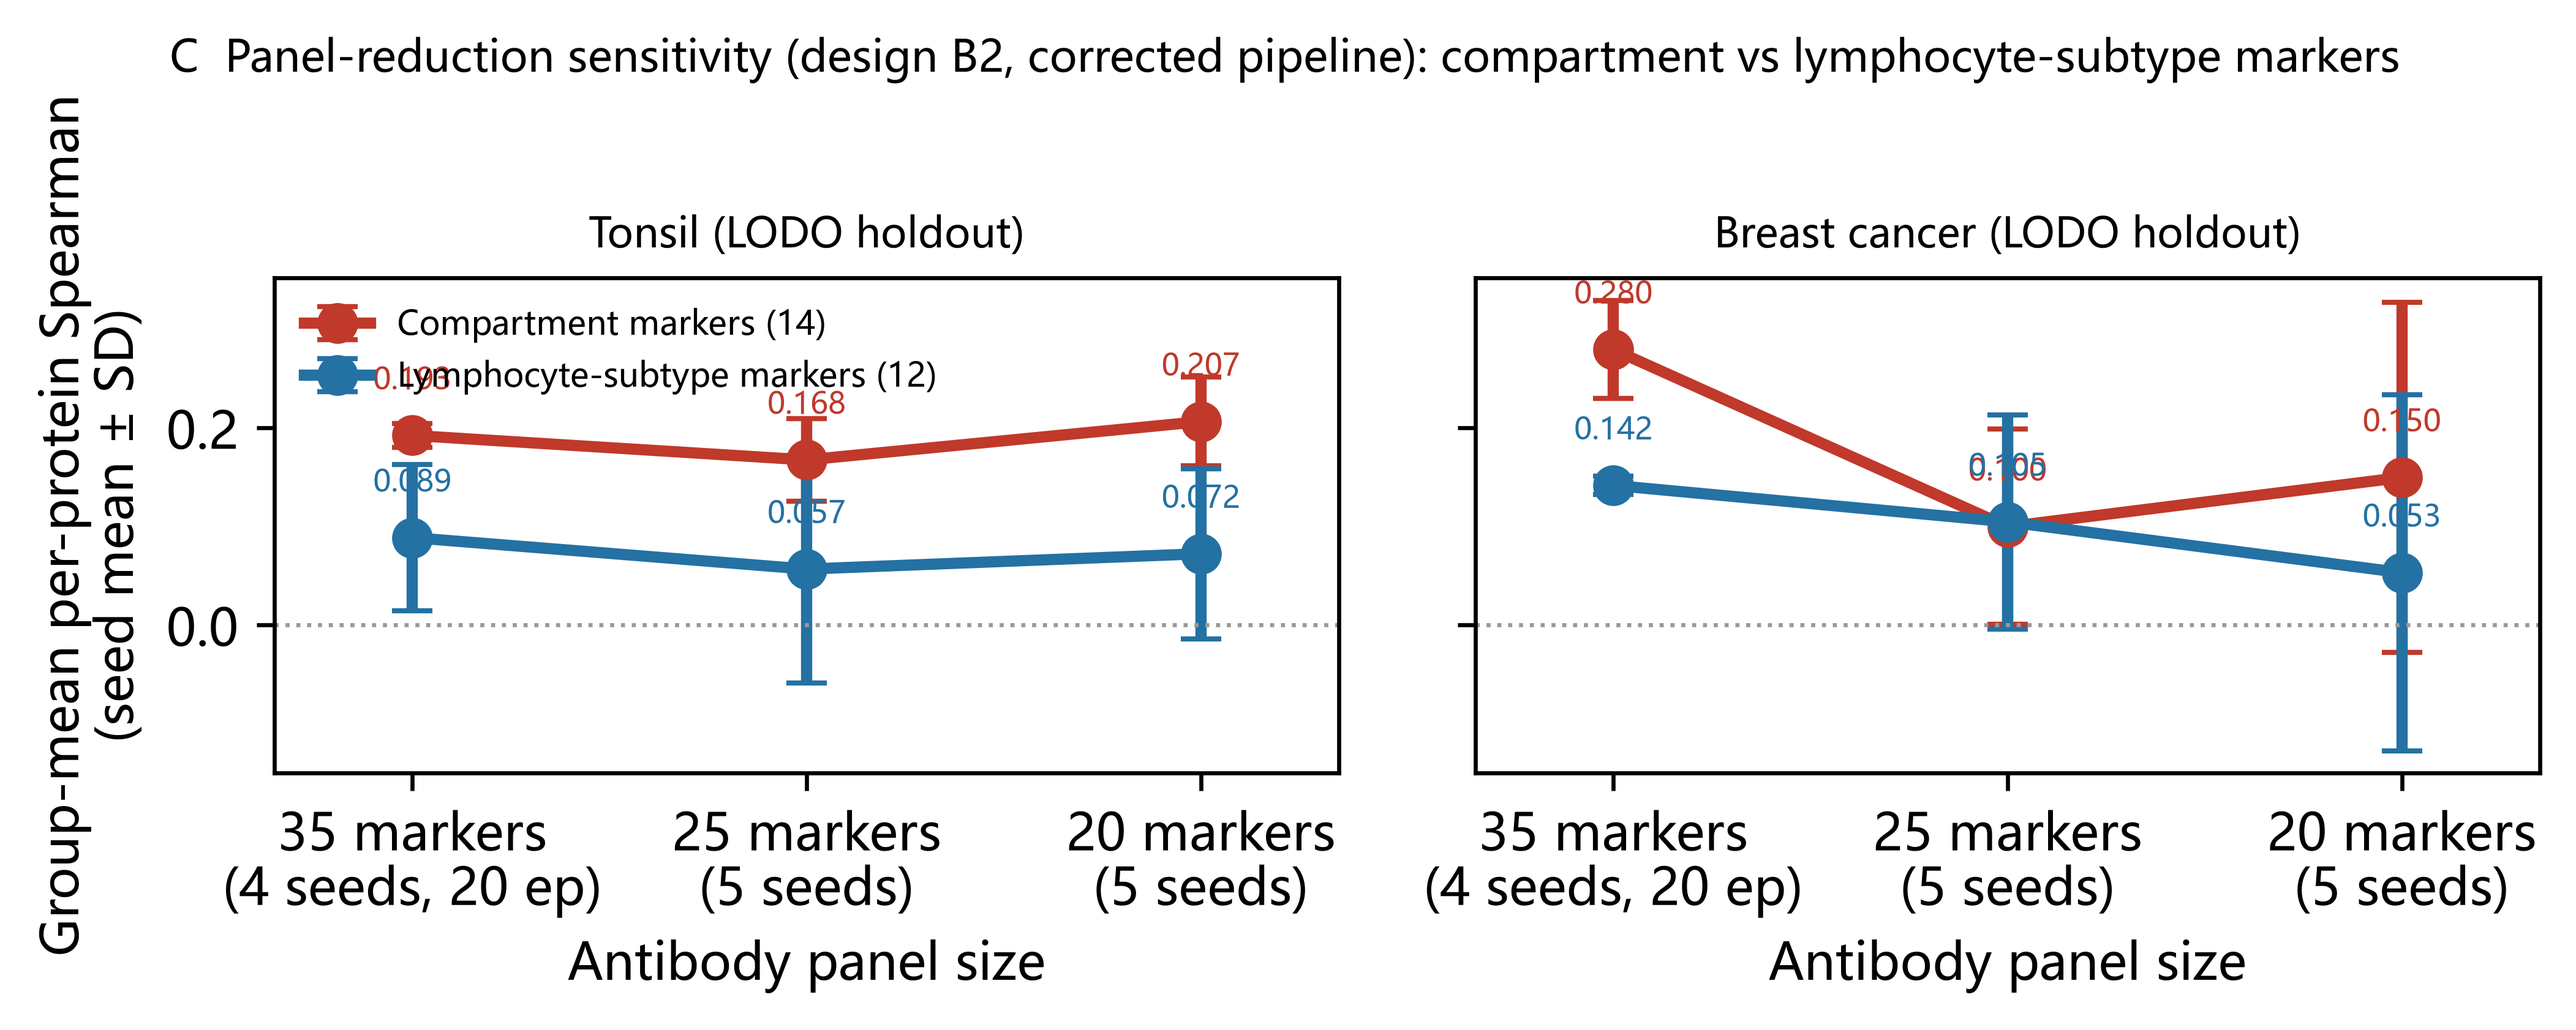
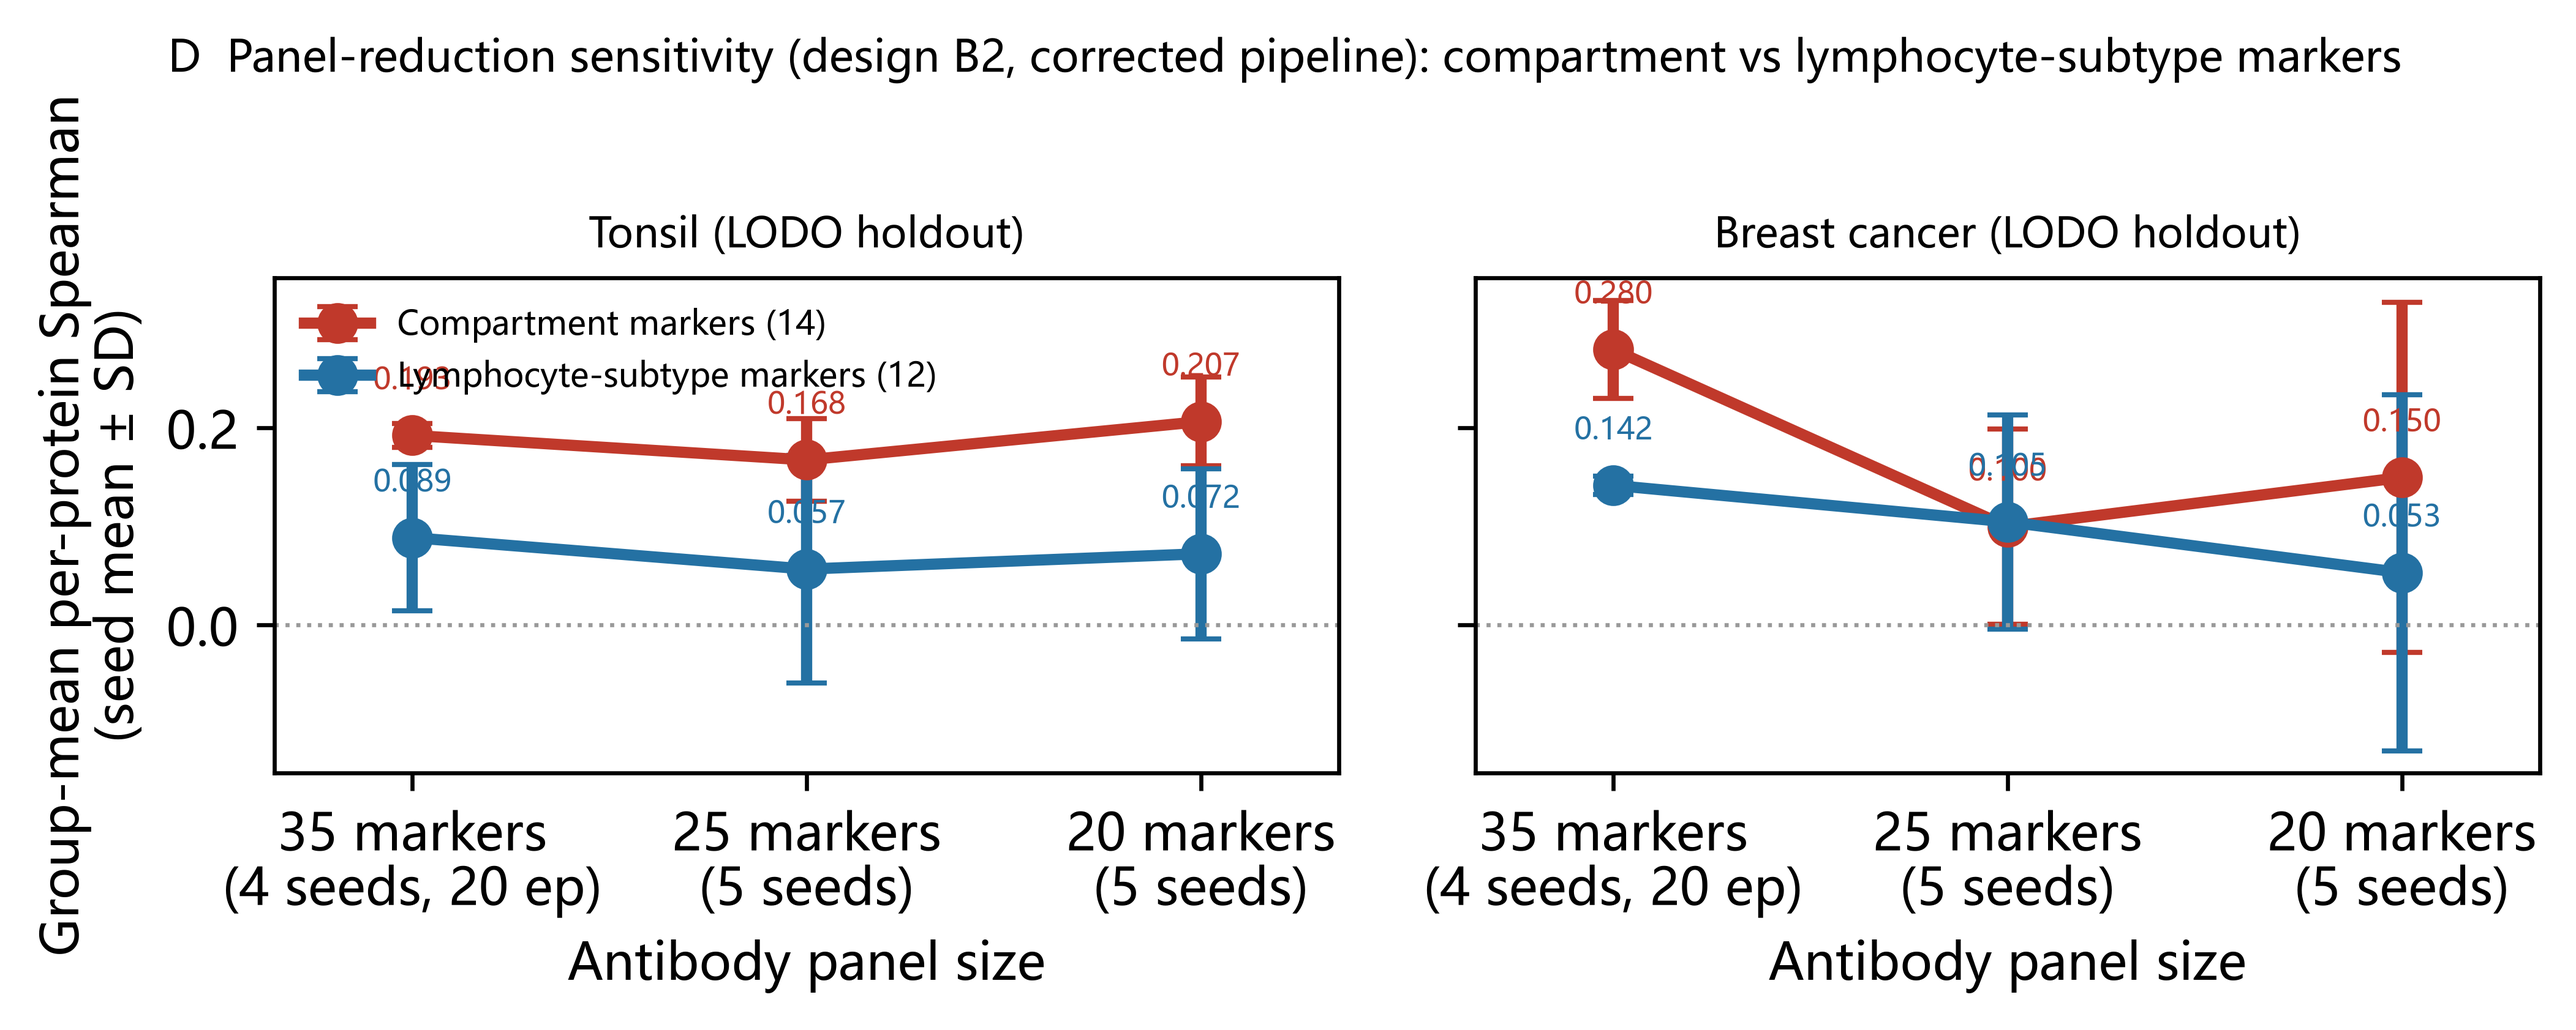
Renumber figures 3/4 and reorder panels to match first-citation order
- Figure 3 = mechanism & controls (A identity, B internal-vs-external, C ablation, D RNA coverage)
- Figure 4 = architecture comparison (A seed stability, B spot retention, C scatter, D paired difference)
- Figure 1 panels C/D swapped so all panels are cited in order
- Abstract trimmed to 148 words (journal limit 150)

Changed region(s): [[0.0623, 0.0309, 0.9344, 0.0927]]

diff --git a/scripts/make_fig3_fig4.py b/scripts/make_fig3_fig4.py
@@ -1,15 +1,20 @@
 # -*- coding: utf-8 -*-
-"""Fig3（架构对比）与 Fig4（机制与对照）——全部数字从存档结果表实时计算，无硬编码统计值。
+"""Fig3（机制与对照）与 Fig4（架构对比）——全部数字从存档结果表实时计算，无硬编码统计值。
 
-数据源：
-- Fig3A/B: results/competitor_benchmark_per_protein.csv (ridge_pc, 4 外部样本) +
-           server_round2/dgat_lodo_gse_per_protein.csv (DGAT, 2 折 × 4 样本)
-- Fig3C:   DGAT 自带 700 基因 spot 过滤后的 n_spots（dgat 表）vs 总 spot 数（internal_vs_external_summary.csv）
-- Fig3D:   results/lodo100ep_multiseed_summary.csv (3 seeds)
-- Fig4A:   results/designC_marker_importance.csv (31 标志物消融)
-- Fig4B:   results/rna_coverage_diagnosis.csv (两数据集)
-- Fig4C:   results/visium_eope_score.csv（或 _A/_B）逐 spot 签名分 → Mann-Whitney AUC(A>B)
-- Fig4D:   results/internal_vs_external_summary.csv（6 样本模型 SP + 同型地板）
+面板按正文首次引用顺序排列（Fig3A 在 §5 切片身份、Fig4A 在 §6 预算、其余随节）：
+
+- Figure 3（机制归因与对照诊断）= results/fig3_mechanism_controls.png
+  Fig3A: results/visium_eope_score.csv 逐 spot 签名分 → Mann-Whitney AUC(A>B)（切片身份）
+  Fig3B: results/internal_vs_external_summary.csv（6 样本模型 SP + 同型地板）
+  Fig3C: results/designC_marker_importance.csv（31 标志物消融）
+  Fig3D: results/rna_coverage_diagnosis.csv（两数据集 RNA 覆盖）
+- Figure 4（架构对比）= results/fig4_architecture.png
+  Fig4A: results/lodo100ep_multiseed_summary.csv（3 seeds 满预算稳定性）
+  Fig4B: results/competitor_benchmark_per_protein.csv (ridge_pc) +
+         server_round2/dgat_lodo_gse_per_protein.csv（逐蛋白散点）
+  Fig4C: 同上（配对差瀑布）
+  Fig4D: DGAT 700 基因 spot 过滤保留率（dgat 表 vs internal_vs_external_summary.csv）
+
 分组（compartment/lymph_subtype/other）取自 designC_marker_importance.csv 的 dropped_group。
 """
 import os
@@ -18,6 +23,7 @@ import pandas as pd
 import matplotlib
 matplotlib.use("Agg")
 import matplotlib.pyplot as plt
+from scipy.stats import mannwhitneyu
 
 os.chdir(os.path.dirname(os.path.dirname(os.path.abspath(__file__))))
 matplotlib.rcParams["font.sans-serif"] = ["DejaVu Sans", "Microsoft YaHei"]
@@ -31,130 +37,23 @@ grp = dict(zip(imp.dropped, imp.dropped_group))
 def gcol(p): return {"compartment": C_COMP, "lymph_subtype": C_LYMPH}.get(grp.get(p), C_OTHER)
 markers = list(grp.keys())
 
-# ---------- Fig3 数据 ----------
+tot = pd.read_csv("results/internal_vs_external_summary.csv")
+ms = pd.read_csv("results/lodo100ep_multiseed_summary.csv")
 ridge = pd.read_csv("results/competitor_benchmark_per_protein.csv")
 ridge_m = (ridge[ridge.model == "ridge_pc"].groupby("protein").spearman.mean())
 dgat = pd.read_csv("server_round2/dgat_lodo_gse_per_protein.csv")
 dgat_s = dgat.groupby(["sample", "protein"]).spearman.mean().reset_index()  # 样本先行（2 折平均）
 dgat_m = dgat_s.groupby("protein").spearman.mean()
 dgat_spots = dgat.groupby("sample").n_spots.first()
-tot = pd.read_csv("results/internal_vs_external_summary.csv")
 tot_ext = tot[tot["set"] == "外部 GSE"].set_index("sample").n_spots
-ms = pd.read_csv("results/lodo100ep_multiseed_summary.csv")
 ridge_mean = float(ridge[ridge.model == "ridge_pc"].groupby("sample").spearman.mean().mean())
 
-fig, axs = plt.subplots(2, 2, figsize=(7.2, 6.1))
-fig.suptitle("Architecture comparison under the identical external protocol", fontsize=9.5, y=0.995)
-
-# A: ridge vs DGAT per-protein scatter
-ax = axs[0, 0]
-for p in markers:
-    ax.scatter(ridge_m[p], dgat_m[p], s=34, c=gcol(p), zorder=3,
-               edgecolor="w", linewidth=0.4)
-lim = [-0.15, 0.85]
-ax.plot(lim, lim, "k--", lw=0.8, zorder=2)
-ax.set_xlim(lim); ax.set_ylim(lim)
-ax.set_xlabel("ridge on PCA-50 (mean external ρ)")
-ax.set_ylabel("DGAT (mean external ρ)")
-for p in ["PAX5", "CXCR5", "PDCD1", "MS4A1", "CD4", "CD8A"]:
-    ax.annotate(p, (ridge_m[p], dgat_m[p]), fontsize=6.5, xytext=(3, 3),
-                textcoords="offset points")
-ax.set_title("A  Per-protein: DGAT vs ridge (31 markers)", fontsize=8.5, loc="left")
-ax.text(0.03, 0.96, f"means: DGAT {dgat_m[markers].mean():.3f} vs ridge {ridge_m[markers].mean():.3f}",
-        transform=ax.transAxes, fontsize=7, va="top",
-        bbox=dict(fc="w", ec="0.7", alpha=0.85))
-ax.spines[["top", "right"]].set_visible(False)
-
-# B: paired difference DGAT - ridge
-ax = axs[0, 1]
-diff = (dgat_m[markers] - ridge_m[markers]).sort_values()
-ax.barh(range(len(diff)), diff.values, color=[gcol(p) for p in diff.index],
-        height=0.72, zorder=3)
-ax.set_yticks(range(len(diff)))
-ax.set_yticklabels(diff.index, fontsize=5.5)
-ax.axvline(0, color="k", lw=0.8)
-ax.set_xlabel("DGAT − ridge  (Spearman)")
-nwin = int((diff > 0).sum())
-ax.set_title(f"B  DGAT wins {nwin} of 31 markers vs ridge", fontsize=8.5, loc="left")
-ax.spines[["top", "right"]].set_visible(False)
-
-# C: DGAT spot retention
-ax = axs[1, 0]
-samples = list(tot_ext.index)
-ret = [100.0 * float(dgat_spots.get(s, np.nan)) / float(tot_ext[s]) for s in samples]
-ax.bar(range(len(samples)), ret, color="#8e44ad", width=0.6, zorder=3)
-for i, (s, r) in enumerate(zip(samples, ret)):
-    ax.text(i, r + 1.5, f"{dgat_spots.get(s, 0):.0f}/{tot_ext[s]:.0f}",
-            ha="center", fontsize=6.5)
-ax.axhline(100, color="k", lw=0.6, ls=":")
-ax.set_xticks(range(len(samples))); ax.set_xticklabels(samples, fontsize=7)
-ax.set_ylabel("spots retained (%)")
-ax.set_ylim(0, 112)
-ax.set_title("C  DGAT spot filter: retention per section", fontsize=8.5, loc="left")
-ax.spines[["top", "right"]].set_visible(False)
-
-# D: 3-seed stability at 100 epochs
-ax = axs[1, 1]
-seeds = ms.seed.astype(int).tolist()
-vals = ms.spear_marker_mean.tolist()
-floors = ms.spear_isotype_mean.tolist()
-ax.bar(range(len(seeds)), vals, color="#e67e22", width=0.55, zorder=3)
-for i, (v, f) in enumerate(zip(vals, floors)):
-    ax.hlines(f, i - 0.27, i + 0.27, color="k", ls=":", lw=1.2, zorder=4)
-ax.axhline(ridge_mean, color="#16a085", lw=1.2, ls="--", zorder=2)
-ax.text(len(seeds) - 0.45, ridge_mean + 0.006, f"ridge {ridge_mean:.3f}",
-        ha="right", fontsize=7, color="#16a085")
-m, sd = np.mean(vals), np.std(vals, ddof=1)
-ax.set_xticks(range(len(seeds))); ax.set_xticklabels([f"seed {s}" for s in seeds])
-ax.set_ylabel("external mean Spearman (31 markers)")
-ax.set_ylim(0, 0.45)
-ax.set_title(f"D  Full-budget stability: {m:.3f} ± {sd:.3f} across seeds",
-             fontsize=8.5, loc="left")
-ax.spines[["top", "right"]].set_visible(False)
-
-plt.tight_layout(rect=[0, 0, 1, 0.97])
-plt.savefig("results/fig3_architecture.png", dpi=600)
-plt.close(fig)
-print(f"fig3 saved | ridge={ridge_mean:.4f} DGAT={dgat_m[markers].mean():.4f} "
-      f"DGAT wins {nwin}/31 | seeds {[round(v,3) for v in vals]} mean {m:.3f}±{sd:.3f} "
-      f"| retention {[round(r,1) for r in ret]}")
-
-# ================= Fig 4 =================
+# ================= Figure 3：机制归因与对照诊断 =================
 fig, axs = plt.subplots(2, 2, figsize=(7.2, 6.1))
 fig.suptitle("Mechanism attribution and control diagnostics", fontsize=9.5, y=0.995)
 
-# A: designC ablation
+# A: section identity AUC (recomputed from per-spot signature scores)
 ax = axs[0, 0]
-d = imp.set_index("dropped").mean_delta.sort_values()
-ax.barh(range(len(d)), d.values, color=[gcol(p) for p in d.index], height=0.72, zorder=3)
-ax.set_yticks(range(len(d))); ax.set_yticklabels(d.index, fontsize=5.5)
-ax.axvline(0, color="k", lw=0.8)
-ax.set_xlabel("mean ΔSpearman when marker dropped")
-ax.set_title("A  Per-marker ablation (31 retrainings)",
-             fontsize=8.5, loc="left")
-ax.spines[["top", "right"]].set_visible(False)
-
-# B: RNA coverage
-ax = axs[0, 1]
-rc = pd.read_csv("results/rna_coverage_diagnosis.csv")
-mk = {"tonsil": "o", "breast": "^"}
-for ds, sub in rc.groupby("dataset"):
-    for gname, c in [("compartment", C_COMP), ("lymph_subtype", C_LYMPH)]:
-        s2 = sub[(sub.group == gname) & (sub.in_panel.astype(str) == "True")]
-        ax.scatter(s2.mean_expr, s2.detect_rate, s=30, c=c, marker=mk.get(ds, "o"),
-                   alpha=0.75, edgecolor="w", linewidth=0.3, zorder=3,
-                   label=f"{gname}, {ds}")
-ax.set_xscale("symlog", linthresh=0.1)
-ax.set_xlabel("namesake expression (log10)")
-ax.set_ylabel("detection rate (fraction of spots)")
-ax.set_ylim(0, 1.02)
-ax.legend(fontsize=6.5, loc="upper left", framealpha=0.9)
-ax.set_title("B  RNA coverage of namesake genes",
-             fontsize=8.5, loc="left")
-ax.spines[["top", "right"]].set_visible(False)
-
-# C: section identity AUC (recomputed from per-spot signature scores)
-ax = axs[1, 0]
 sc = pd.read_csv("results/visium_eope_score.csv")
 sigs = ["vSTB1", "vSTB2", "vSTBjuv", "vCTB", "vHBC", "vVEC"]
 if set(sc.section.unique()) >= {"A", "B"}:
@@ -169,13 +68,10 @@ aucs = {}
 for s in sigs:
     xa = A[f"score_{s}"].dropna().values
     xb = B[f"score_{s}"].dropna().values
-    u = len(xa) * len(xb) * 0.5  # placeholder, real below
-    from scipy.stats import mannwhitneyu
     u, p = mannwhitneyu(xa, xb, alternative="two-sided")
     aucs[s] = u / (len(xa) * len(xb))
 # 合并签名
 xa = A["score"].dropna().values; xb = B["score"].dropna().values
-from scipy.stats import mannwhitneyu
 u, p = mannwhitneyu(xa, xb, alternative="two-sided")
 aucs["combined"] = u / (len(xa) * len(xb))
 names = sigs + ["combined"]
@@ -188,11 +84,11 @@ ax.invert_yaxis()
 for i, v in enumerate(vals_c):
     ax.text(v + 0.002, i, f"{v:.3f}", va="center", fontsize=6.5)
 ax.set_xlabel("AUC (A vs B, Mann–Whitney U)")
-ax.set_title("C  Section identity unresolved: all AUCs ≈ 0.5", fontsize=8.5, loc="left")
+ax.set_title("A  Section identity unresolved: all AUCs ≈ 0.5", fontsize=8.5, loc="left")
 ax.spines[["top", "right"]].set_visible(False)
 
-# D: internal vs external per sample
-ax = axs[1, 1]
+# B: internal vs external per sample
+ax = axs[0, 1]
 iv = tot.copy()
 labels = iv["sample"].tolist()
 colors = ["#7f8c8d" if s == "内部 LODO" else "#c0392b" for s in iv["set"]]
@@ -209,12 +105,119 @@ ax.set_xticklabels([f"{t}\n({g})" for t, g in zip(short_lab, iv["set_short"])], 
 ax.axhline(0, color="k", lw=0.6)
 ax.set_ylabel("mean Spearman (20-epoch ckpts)")
 ax.legend(fontsize=6.5, loc="upper right")
-ax.set_title("D  Internal LODO vs external sections",
+ax.set_title("B  Internal LODO vs external sections",
+             fontsize=8.5, loc="left")
+ax.spines[["top", "right"]].set_visible(False)
+
+# C: designC ablation
+ax = axs[1, 0]
+d = imp.set_index("dropped").mean_delta.sort_values()
+ax.barh(range(len(d)), d.values, color=[gcol(p) for p in d.index], height=0.72, zorder=3)
+ax.set_yticks(range(len(d))); ax.set_yticklabels(d.index, fontsize=5.5)
+ax.axvline(0, color="k", lw=0.8)
+ax.set_xlabel("mean ΔSpearman when marker dropped")
+ax.set_title("C  Per-marker ablation (31 retrainings)",
+             fontsize=8.5, loc="left")
+ax.spines[["top", "right"]].set_visible(False)
+
+# D: RNA coverage
+ax = axs[1, 1]
+rc = pd.read_csv("results/rna_coverage_diagnosis.csv")
+mk = {"tonsil": "o", "breast": "^"}
+for ds, sub in rc.groupby("dataset"):
+    for gname, c in [("compartment", C_COMP), ("lymph_subtype", C_LYMPH)]:
+        s2 = sub[(sub.group == gname) & (sub.in_panel.astype(str) == "True")]
+        ax.scatter(s2.mean_expr, s2.detect_rate, s=30, c=c, marker=mk.get(ds, "o"),
+                   alpha=0.75, edgecolor="w", linewidth=0.3, zorder=3,
+                   label=f"{gname}, {ds}")
+ax.set_xscale("symlog", linthresh=0.1)
+ax.set_xlabel("namesake expression (log10)")
+ax.set_ylabel("detection rate (fraction of spots)")
+ax.set_ylim(0, 1.02)
+ax.legend(fontsize=6.5, loc="upper left", framealpha=0.9)
+ax.set_title("D  RNA coverage of namesake genes",
              fontsize=8.5, loc="left")
 ax.spines[["top", "right"]].set_visible(False)
 
 plt.tight_layout(rect=[0, 0, 1, 0.97])
-plt.savefig("results/fig4_mechanism_controls.png", dpi=600)
+plt.savefig("results/fig3_mechanism_controls.png", dpi=600)
 plt.close(fig)
-print(f"fig4 saved | AUCs {({k: round(v,3) for k,v in aucs.items()})} "
+print(f"fig3 saved | AUCs {({k: round(v,3) for k,v in aucs.items()})} "
       f"| ablation range [{d.min():.3f},{d.max():.3f}] | n rc rows {len(rc)}")
+
+# ================= Figure 4：架构对比 =================
+fig, axs = plt.subplots(2, 2, figsize=(7.2, 6.1))
+fig.suptitle("Architecture comparison under the identical external protocol", fontsize=9.5, y=0.995)
+
+# A: 3-seed stability at 100 epochs
+ax = axs[0, 0]
+seeds = ms.seed.astype(int).tolist()
+vals = ms.spear_marker_mean.tolist()
+floors = ms.spear_isotype_mean.tolist()
+ax.bar(range(len(seeds)), vals, color="#e67e22", width=0.55, zorder=3)
+for i, (v, f) in enumerate(zip(vals, floors)):
+    ax.hlines(f, i - 0.27, i + 0.27, color="k", ls=":", lw=1.2, zorder=4)
+ax.axhline(ridge_mean, color="#16a085", lw=1.2, ls="--", zorder=2)
+ax.text(len(seeds) - 0.45, ridge_mean + 0.006, f"ridge {ridge_mean:.3f}",
+        ha="right", fontsize=7, color="#16a085")
+m, sd = np.mean(vals), np.std(vals, ddof=1)
+ax.set_xticks(range(len(seeds))); ax.set_xticklabels([f"seed {s}" for s in seeds], fontsize=7.5)
+ax.set_ylabel("external mean Spearman")
+ax.set_ylim(0, 0.45)
+ax.set_title(f"A  Full-budget stability: {m:.3f} ± {sd:.3f} across seeds",
+             fontsize=8.5, loc="left")
+ax.spines[["top", "right"]].set_visible(False)
+
+# C: ridge vs DGAT per-protein scatter
+ax = axs[1, 0]
+for p in markers:
+    ax.scatter(ridge_m[p], dgat_m[p], s=34, c=gcol(p), zorder=3,
+               edgecolor="w", linewidth=0.4)
+lim = [-0.15, 0.85]
+ax.plot(lim, lim, "k--", lw=0.8, zorder=2)
+ax.set_xlim(lim); ax.set_ylim(lim)
+ax.set_xlabel("ridge on PCA-50 (mean external ρ)")
+ax.set_ylabel("DGAT (mean external ρ)")
+for p in ["PAX5", "CXCR5", "PDCD1", "MS4A1", "CD4", "CD8A"]:
+    ax.annotate(p, (ridge_m[p], dgat_m[p]), fontsize=6.5, xytext=(3, 3),
+                textcoords="offset points")
+ax.set_title("C  Per-protein: DGAT vs ridge (31 markers)", fontsize=8.5, loc="left")
+ax.text(0.03, 0.96, f"means: DGAT {dgat_m[markers].mean():.3f} vs ridge {ridge_m[markers].mean():.3f}",
+        transform=ax.transAxes, fontsize=7, va="top",
+        bbox=dict(fc="w", ec="0.7", alpha=0.85))
+ax.spines[["top", "right"]].set_visible(False)
+
+# D: paired difference DGAT - ridge
+ax = axs[1, 1]
+diff = (dgat_m[markers] - ridge_m[markers]).sort_values()
+ax.barh(range(len(diff)), diff.values, color=[gcol(p) for p in diff.index],
+        height=0.72, zorder=3)
+ax.set_yticks(range(len(diff)))
+ax.set_yticklabels(diff.index, fontsize=5.5)
+ax.axvline(0, color="k", lw=0.8)
+ax.set_xlabel("DGAT − ridge  (Spearman)")
+nwin = int((diff > 0).sum())
+ax.set_title(f"D  DGAT wins {nwin} of 31 markers vs ridge", fontsize=8.5, loc="left")
+ax.spines[["top", "right"]].set_visible(False)
+
+# B: DGAT spot retention
+ax = axs[0, 1]
+samples = list(tot_ext.index)
+ret = [100.0 * float(dgat_spots.get(s, np.nan)) / float(tot_ext[s]) for s in samples]
+ax.bar(range(len(samples)), ret, color="#8e44ad", width=0.6, zorder=3)
+for i, (s, r) in enumerate(zip(samples, ret)):
+    ax.text(i, r + 1.5, f"{dgat_spots.get(s, 0):.0f}/{tot_ext[s]:.0f}",
+            ha="center", fontsize=6.5)
+ax.axhline(100, color="k", lw=0.6, ls=":")
+ax.set_xticks(range(len(samples))); ax.set_xticklabels(samples, fontsize=7)
+ax.set_ylabel("spots retained (%)")
+ax.set_ylim(0, 112)
+ax.set_title("B  DGAT spot filter: retention per section", fontsize=8.5, loc="left")
+ax.spines[["top", "right"]].set_visible(False)
+
+plt.tight_layout(rect=[0, 0, 1, 0.97])
+plt.savefig("results/fig4_architecture.png", dpi=600)
+plt.close(fig)
+print(f"fig4 saved | ridge={ridge_mean:.4f} DGAT={dgat_m[markers].mean():.4f} "
+      f"DGAT wins {nwin}/31 | seeds {[round(v,3) for v in vals]} mean {m:.3f}±{sd:.3f} "
+      f"| retention {[round(r,1) for r in ret]}")

diff --git a/scripts/make_fig1_composite.py b/scripts/make_fig1_composite.py
@@ -10,10 +10,10 @@ import matplotlib.image as mpimg
 os.chdir(os.path.dirname(os.path.dirname(os.path.abspath(__file__))))
 
 fig = plt.figure(figsize=(7.4, 9.6))
-gs = fig.add_gridspec(3, 1, height_ratios=[2.9, 2.7, 3.9], hspace=0.07)
+gs = fig.add_gridspec(3, 1, height_ratios=[2.9, 3.9, 2.7], hspace=0.07)
 for i, f in enumerate(["results/fig1_benchmark_external.png",
-                       "results/fig1c_panel_reduction.png",
-                       "results/fig1d_budget_vs_baselines.png"]):
+                       "results/fig1d_budget_vs_baselines.png",
+                       "results/fig1c_panel_reduction.png"]):
     ax = fig.add_subplot(gs[i])
     ax.imshow(mpimg.imread(f))
     ax.axis("off")

diff --git a/scripts/make_fig1c.py b/scripts/make_fig1c.py
@@ -97,7 +97,7 @@ for ax, (title, fold) in zip(axes, FOLDS):
 
 axes[0].set_ylabel("Group-mean per-protein Spearman\n(seed mean ± SD)")
 axes[0].legend(loc="upper left", fontsize=6.5, frameon=False)
-fig.suptitle("C  Panel-reduction sensitivity (design B2, corrected pipeline): compartment vs lymphocyte-subtype markers",
+fig.suptitle("D  Panel-reduction sensitivity (design B2, corrected pipeline): compartment vs lymphocyte-subtype markers",
              fontsize=8.5, y=1.02)
 fig.tight_layout()
 fig.savefig("results/fig1c_panel_reduction.png", dpi=600, bbox_inches="tight")

diff --git a/scripts/make_fig1d.py b/scripts/make_fig1d.py
@@ -52,7 +52,7 @@ ax.axhline(0, color="k", lw=0.6)
 ax.set_xticks(list(x))
 ax.set_xticklabels([b[0] for b in bars], fontsize=7)
 ax.set_ylabel("external GSE263617 mean Spearman ρ\n(proc mode, marker proteins)")
-ax.set_title("D  External validation: training budget vs model architecture\n(central negative result)", fontsize=9)
+ax.set_title("C  External validation: training budget vs model architecture\n(central negative result)", fontsize=9)
 ax.spines[["top", "right"]].set_visible(False)
 plt.tight_layout()
 plt.savefig("results/fig1d_budget_vs_baselines.png", dpi=600)
